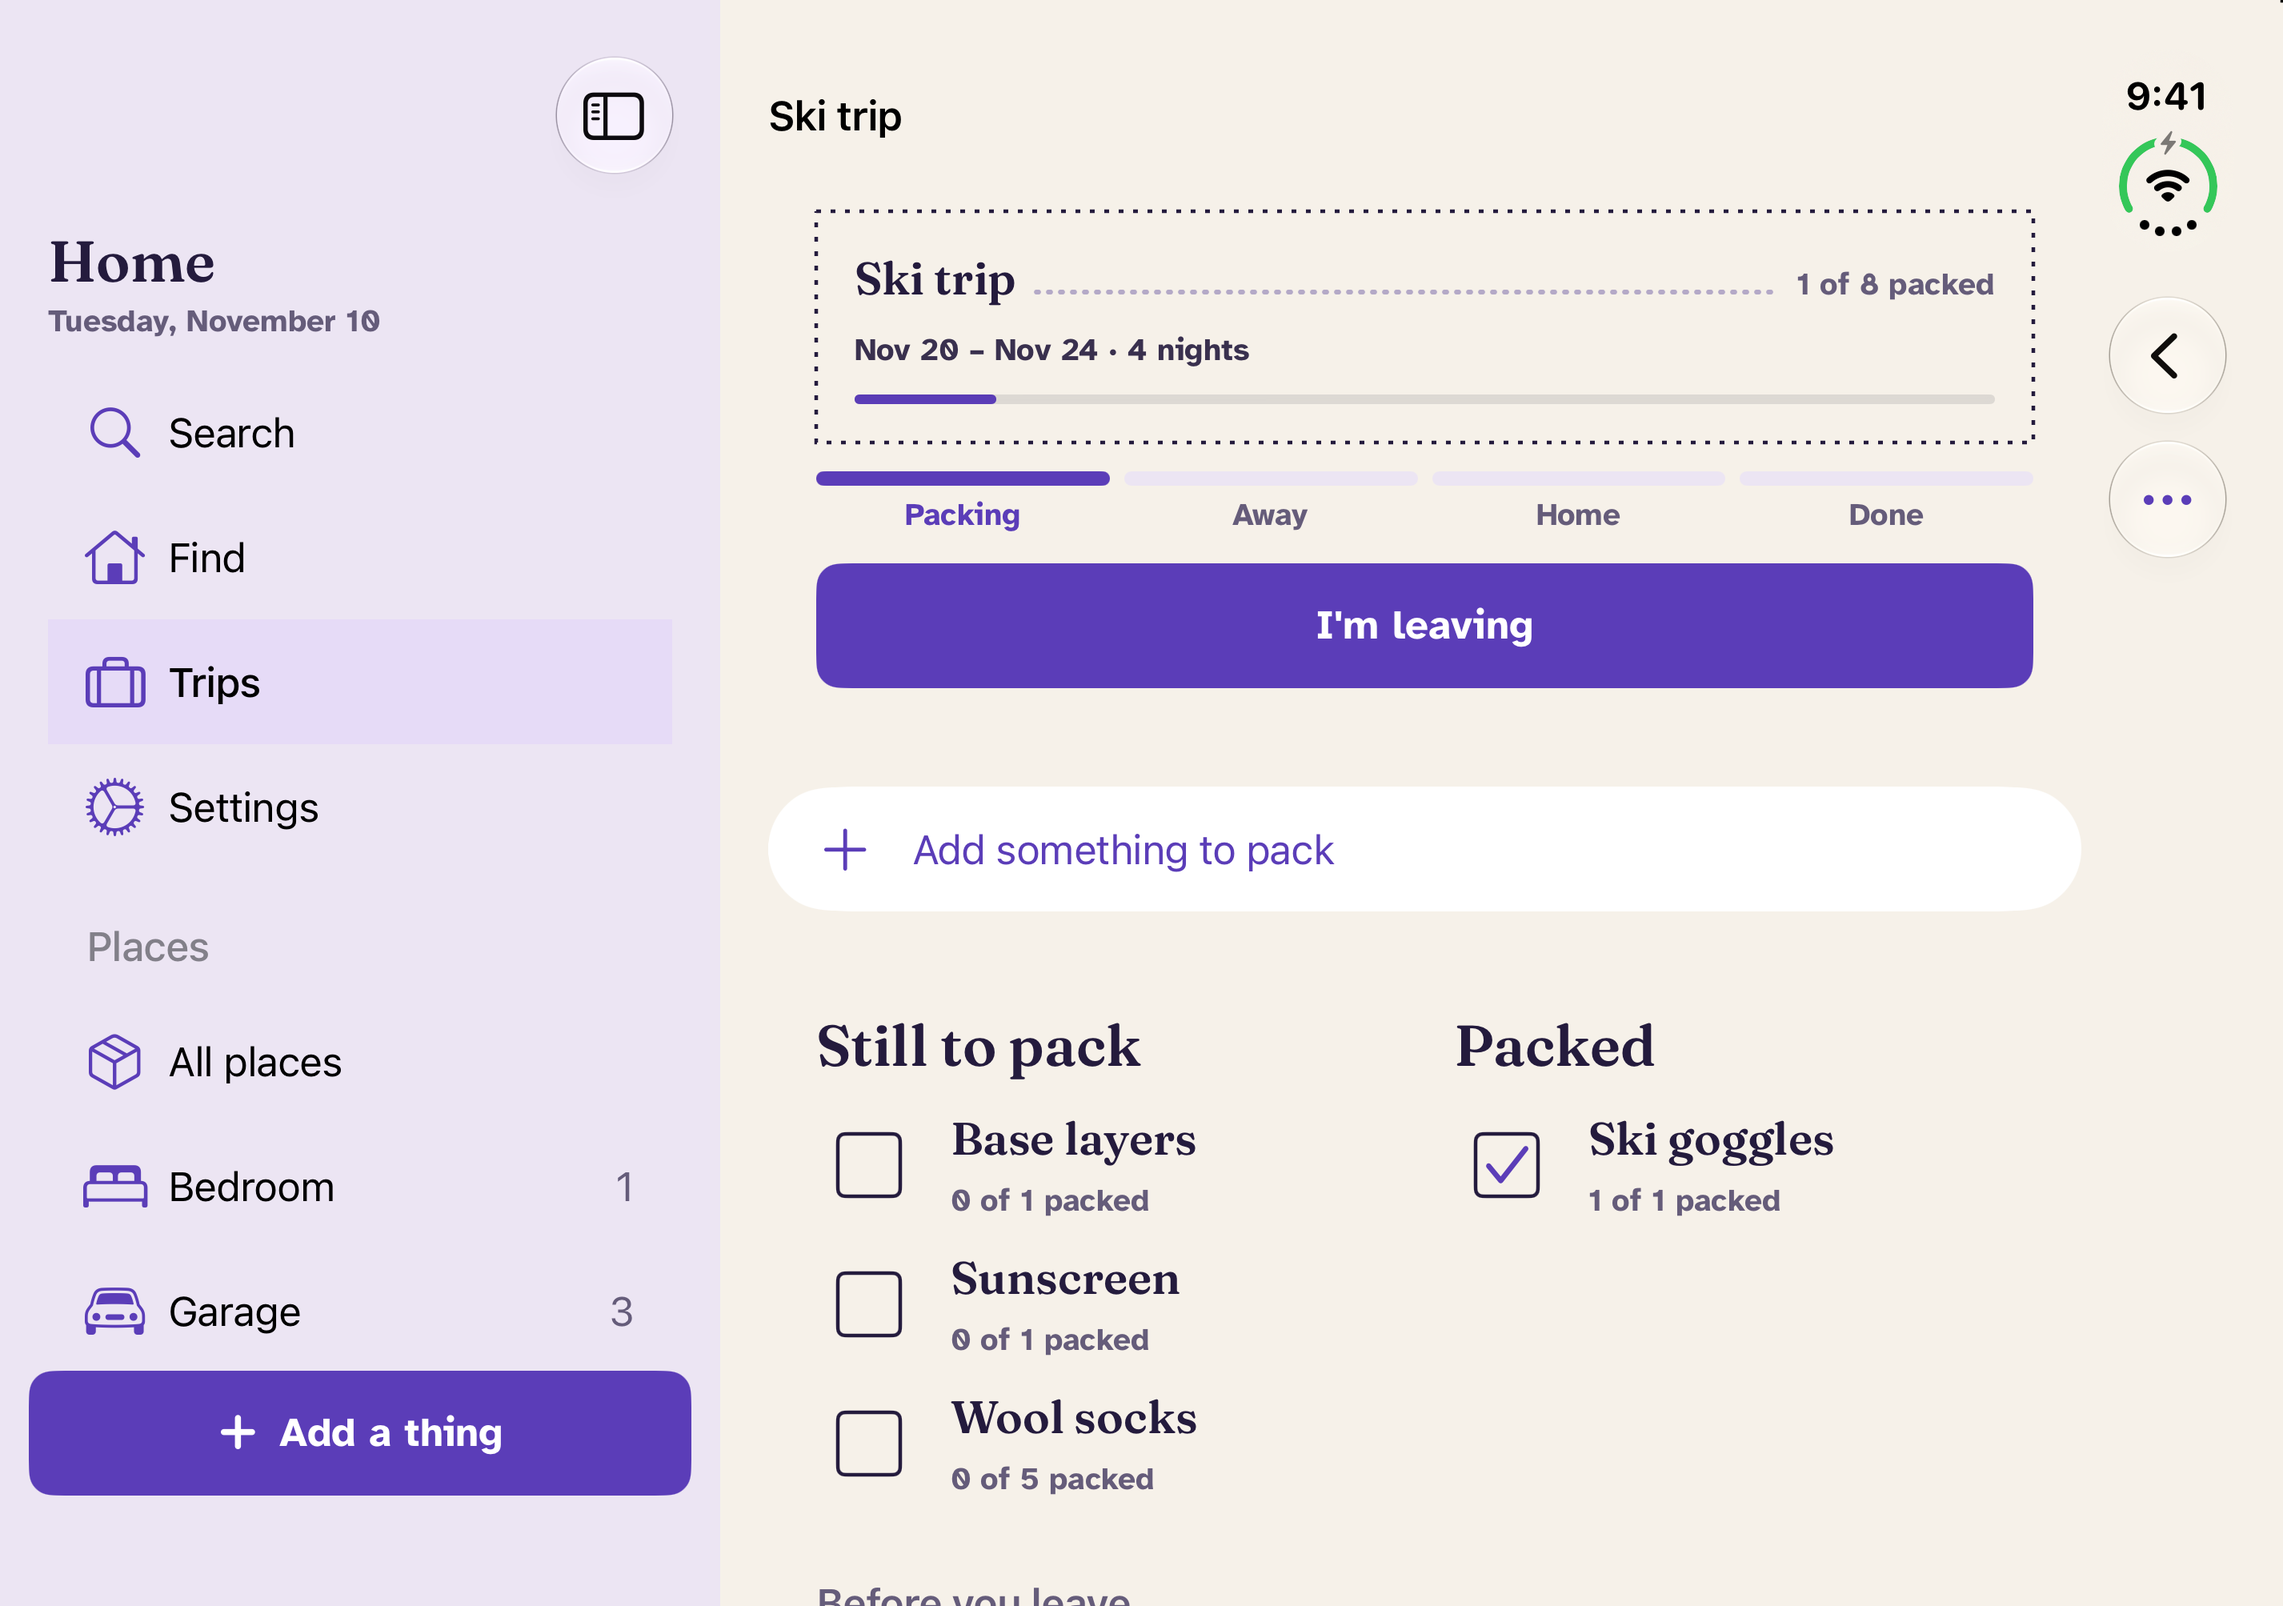
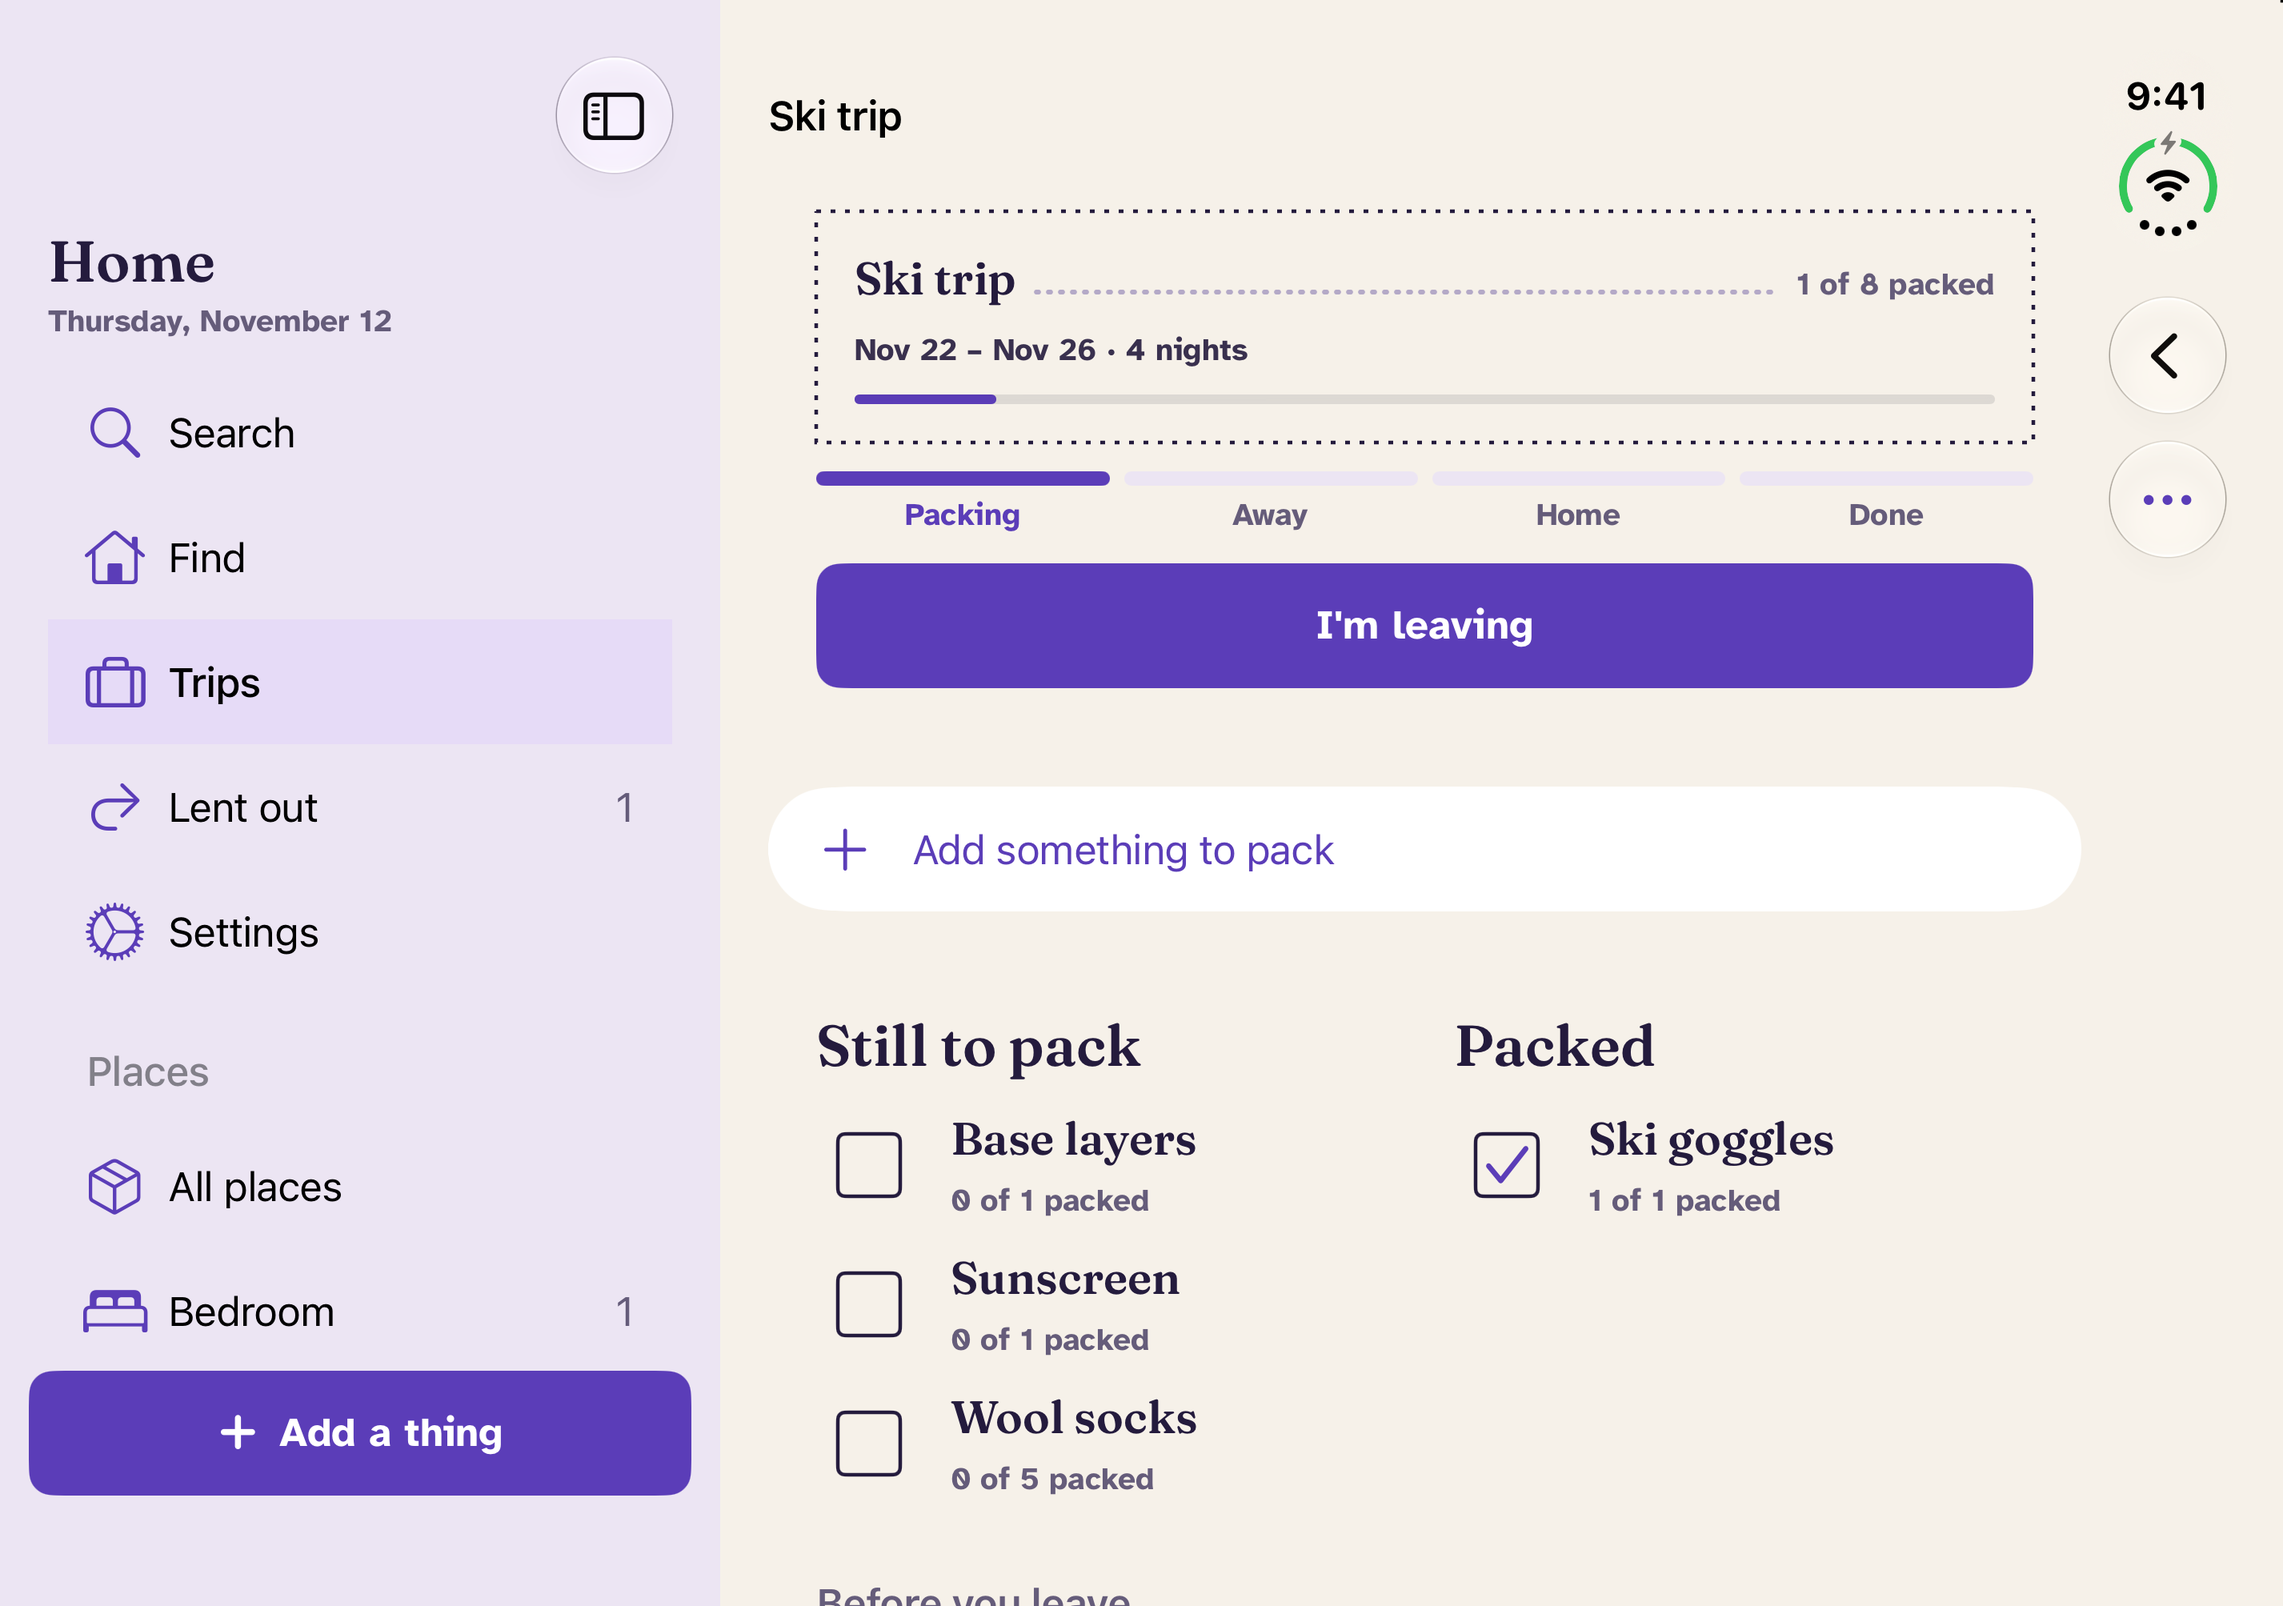
Docs: Duo store shots retaken for the Lent out row and Text them; the store README's 12 November note

diff --git a/Docs/RELEASE_PLAN.md b/Docs/RELEASE_PLAN.md
@@ -415,7 +415,7 @@ Decided 8 November: both in 1.0. Built during the beta week, before the TestFlig
   - *The Pro screen didn't make it plain that lending is free. Lending now has its own row, "Who has it, and a reminder to ask for it back", included in Free and Pro, and "Everything else" no longer lists it.*
   - *All new words are in the five languages. The store screenshots (iPhone, iPad and Duo) and the Pro review screenshot show the old tab bar and sidebar, so they need retaking. The owner said yes the same day to retaking and uploading them, and to build 5 for the internal group.*
   - *Telling the borrower (the owner's yes, 12 November): "Text them". A borrower doesn't have the app, so the lender sends the note. The ask-back reminder has a "Text them" button: it opens Hereabouts (so the phone is unlocked first) at the thing, with Messages over it and a note already written ("Hi Sam, could I have my Cordless drill back when you get a chance?"). The lender picks the person in Messages' own To field and taps send, so Hereabouts keeps only the name and never reads contacts or stores a number. The thing page has the same "Text Sam" button under It's back. A device without Messages (an iPad without iMessage, the simulator) shares the note from the thing page instead, and its reminders have no button. The note keeps a private thing's name, since the lender reads it before sending; a reminder that hides names still says only "Ask for something back." The French note says "tu", as a text between friends would. On the thing page, "Where it's been" and "Packed trips" headers are now pencil on paper: the list's own grey measured too faint by the audit.*
-  - *Tests dcacd85, code 4315d9f. 224 unit tests pass on iOS 27 and on iOS 26.5 (8 skipped there), and the 43 UI tests pass on both with no failures. On the iPad Pro 13-inch the wide tests pass; in the full run one (shortcuts while a sheet is open) hung waiting for the app to settle and passed in 29 seconds when run again. The phone can't be tested for Messages itself on a simulator, so the first real check of "Text them" is on a phone with build 5.*
+  - *Tests dcacd85, code 4315d9f. 224 unit tests pass on iOS 27 and on iOS 26.5 (8 skipped there), and the 43 UI tests pass on both with no failures. On the iPad Pro 13-inch the wide tests pass; in the full run one (shortcuts while a sheet is open) hung waiting for the app to settle and passed in 29 seconds when run again. A simulator has no Messages, so it shows the share sheet with the note instead; the first real check of "Text them" in Messages is on a phone with build 5.*
   - *Tests 980a8df, code 10cec2e. 221 unit tests pass on iOS 27 and on iOS 26.5 (8 skipped there). The 42 UI tests pass on iOS 27. On iOS 26.5, two failed in the full run and passed when run again: a dropped keystroke saved "Kettl", and the audit reported the unchanged Backup page's text as not growing with the text size. On the iPad Pro 13-inch the wide tests pass (the store shots run on demand). At the largest text size the audit called the sidebar's "Lent out" clipped beside its count, though it's whole on screen, so it joins "Hall closet" on the list of row names it may report. The Duo's wide tests wait for it to be unfolded.*
 
 ### Set aside for the owner

diff --git a/Docs/Store/README.md b/Docs/Store/README.md
@@ -4,6 +4,8 @@ The iPhone set was taken 7 November 2026 on the iPhone 17 Pro Max simulator (6.9
 
 Retaken 10 November (owner, O37): shot 5 is now a room with a box inside (`5-places.png`) instead of the Pro screen, because the English (U.S.) shots stand in for every country and the Pro screen showed US prices. The lending shot now shows the demo's drill, lent two evenings ago, so its history line no longer reads later than the 9:41 status bar. The Pro screen, with the plans from the local StoreKit file, is kept as `Review/pro.png` for the products' review screenshots (O22). All five shots in each set were retaken together, so each set comes from one run. The iPhone set was retaken on the iPhone 18 Pro Max simulator (also 1320 × 2868), because the 17 Pro Max simulator is no longer installed; the iPad set on the iPad Pro 13-inch (M5) and the Duo set on the stock iPhone Duo, all iOS 27.2.
 
+Retaken 12 November (owner, M65), all three sets and `Review/pro.png`, on the same simulators: Lent out is now its own tab (left of Settings) on the phone and its own row in the iPad sidebar, the lending shot shows the new "Text Sam" button, the New thing sheet's place row reads like a field, and the Pro screen lists lending as free.
+
 Retake them with the simulator booted and its status bar and appearance set:
 
 ```bash
